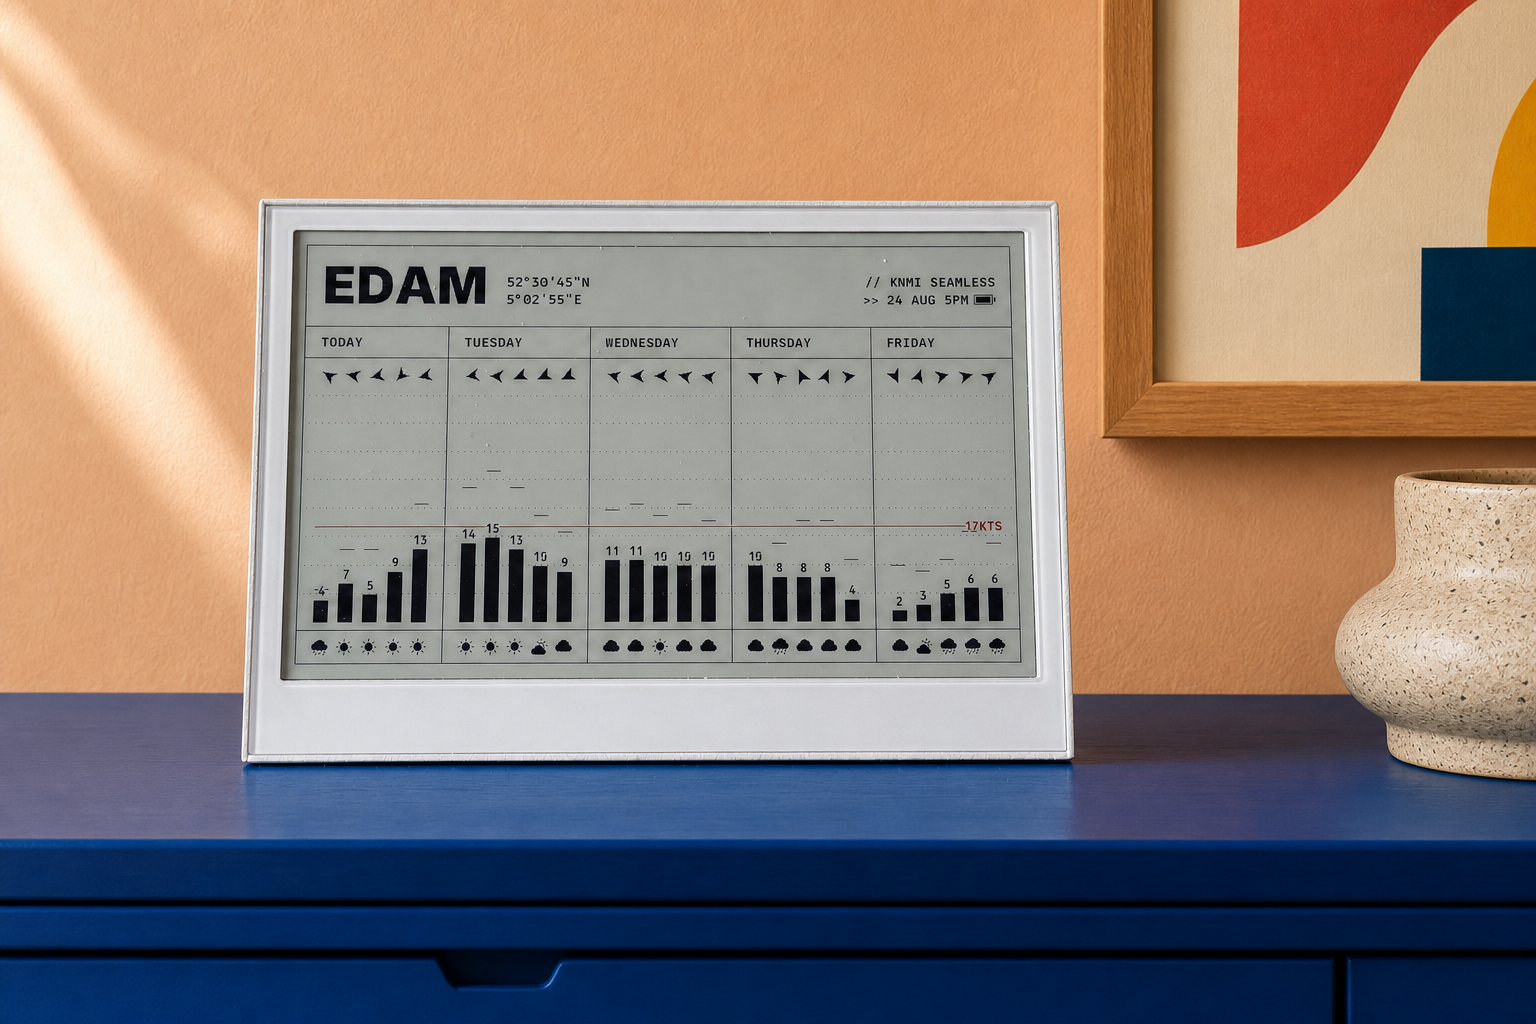
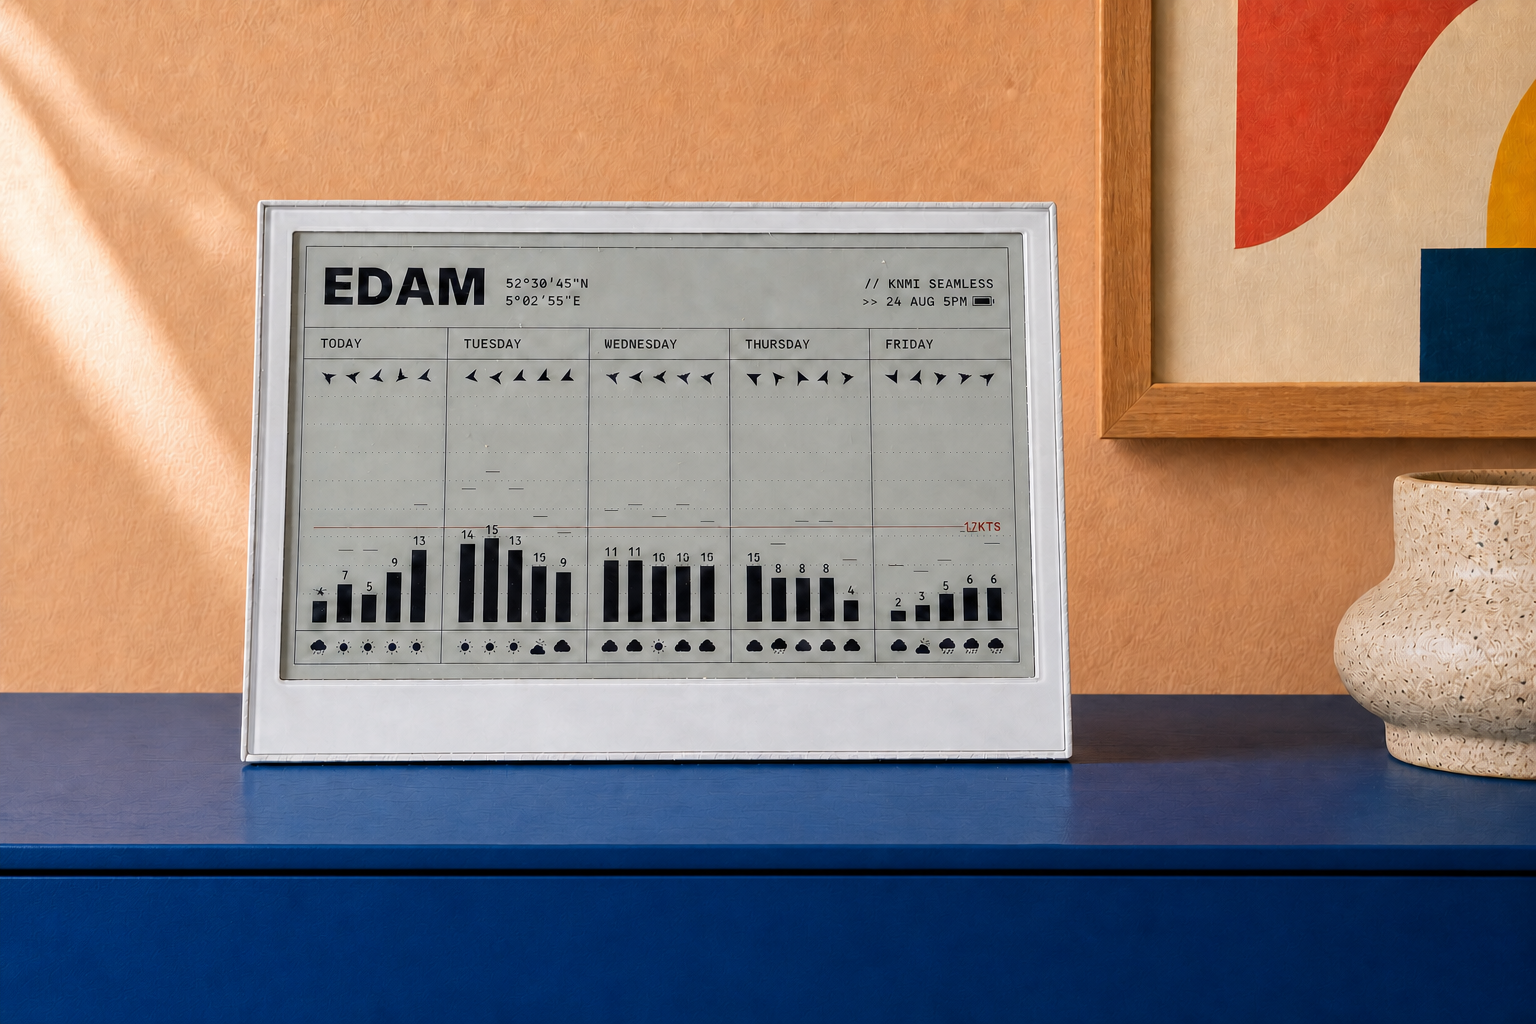
Launch Windscout interest page

diff --git a/index.html b/index.html
@@ -4,7 +4,21 @@
   <meta charset="utf-8">
   <meta name="viewport" content="width=device-width, initial-scale=1">
   <meta name="description" content="Windscout is an always-on e-ink wind forecast that helps you spot the next good session without checking another app.">
-  <title>Windscout</title>
+  <link rel="canonical" href="https://windscout.emieljanson.com/">
+  <meta property="og:type" content="website">
+  <meta property="og:site_name" content="Windscout">
+  <meta property="og:title" content="Catch the good wind.">
+  <meta property="og:description" content="An always-on e-ink wind forecast that keeps the next five days visible at home.">
+  <meta property="og:url" content="https://windscout.emieljanson.com/">
+  <meta property="og:image" content="https://windscout.emieljanson.com/assets/windscout-social.jpg">
+  <meta property="og:image:width" content="1200">
+  <meta property="og:image:height" content="630">
+  <meta property="og:image:alt" content="Windscout showing a five-day wind forecast on an e-ink display">
+  <meta name="twitter:card" content="summary_large_image">
+  <meta name="twitter:title" content="Catch the good wind.">
+  <meta name="twitter:description" content="An always-on e-ink wind forecast that keeps the next five days visible at home.">
+  <meta name="twitter:image" content="https://windscout.emieljanson.com/assets/windscout-social.jpg">
+  <title>Windscout — Always-on e-ink wind forecast</title>
   <style>
     @font-face {
       font-family: "Inter";
@@ -279,10 +293,21 @@
       padding: 0 14px;
     }
 
+    form .button.is-success,
+    form .button.is-success:hover {
+      border-color: #28603a;
+      background: #28603a;
+    }
+
     .note {
       margin-top: 13px;
       color: var(--muted);
       font-size: 12px;
+    }
+
+    .note.is-success {
+      color: var(--text);
+      font-weight: 600;
     }
 
     footer {
@@ -328,7 +353,7 @@
     </header>
 
     <figure>
-      <img src="assets/windscout-hero-blue.png" alt="Windscout on a cobalt-blue sideboard showing a five-day e-ink wind forecast">
+      <img src="assets/windscout-hero-blue.webp" alt="Windscout on a cobalt-blue sideboard showing a five-day e-ink wind forecast">
     </figure>
 
     <section class="story" aria-label="About Windscout">
@@ -353,7 +378,7 @@
     <section class="unlock" id="build">
       <h2>Would you want one?</h2>
       <p>Tell me which version would be useful to you. This will decide what I build next.</p>
-      <form id="interest-form" action="https://formspree.io/f/moeaonzn" method="post">
+      <form id="interest-form" action="https://script.google.com/macros/s/AKfycbzOEnnY2C5OC87GXGo4WY7G3pSt0n2bMd7IxO6Q8Fi_n20BhUl1cIVisay5XUCnQBjPKA/exec" method="post" target="interest-response">
         <fieldset class="interest-options">
           <legend class="visually-hidden">How would you like to get Windscout?</legend>
           <label class="interest-option">
@@ -375,7 +400,8 @@
             </span>
           </label>
         </fieldset>
-        <input type="hidden" name="subject" value="New Windscout interest">
+        <input type="hidden" name="source" value="windscout.emieljanson.com">
+        <input class="visually-hidden" type="text" name="website" tabindex="-1" autocomplete="off" aria-hidden="true">
         <div class="signup-row">
           <label class="visually-hidden" for="email">Email address</label>
           <input class="email-input" id="email" name="email" type="email" autocomplete="email" placeholder="you@example.com" required>
@@ -383,6 +409,7 @@
         </div>
         <p class="note" id="signup-status" role="status" aria-live="polite">I’ll only email you about Windscout. Unsubscribe anytime.</p>
       </form>
+      <iframe class="visually-hidden" name="interest-response" title="Form submission response"></iframe>
     </section>
 
     <footer>Windscout is an independent project by <a href="https://emieljanson.com/">Emiel Janson</a>.</footer>
@@ -553,8 +580,43 @@
       const button = form.querySelector("button[type='submit']");
       const status = document.querySelector("#signup-status");
       const defaultButtonLabel = button.textContent;
+      const defaultStatus = status.textContent;
+      let responseTimer;
 
-      form.addEventListener("submit", async (event) => {
+      const finish = (message, success) => {
+        window.clearTimeout(responseTimer);
+        button.disabled = false;
+        button.classList.toggle("is-success", success);
+        status.classList.toggle("is-success", success);
+
+        if (success) {
+          form.reset();
+          button.textContent = "✓ Interest sent";
+          status.textContent = "Thanks — you’re on the Windscout list.";
+        } else {
+          button.textContent = defaultButtonLabel;
+          status.textContent = message || "Unable to send. Check your connection and try again.";
+        }
+      };
+
+      const clearSuccess = () => {
+        if (!button.classList.contains("is-success")) return;
+        button.classList.remove("is-success");
+        button.textContent = defaultButtonLabel;
+        status.classList.remove("is-success");
+        status.textContent = defaultStatus;
+      };
+
+      form.addEventListener("input", clearSuccess);
+
+      window.addEventListener("message", (event) => {
+        const trustedOrigin = event.origin === "https://script.google.com" || event.origin.endsWith(".googleusercontent.com");
+        if (!trustedOrigin || event.data?.source !== "windscout-interest") return;
+
+        finish(event.data.message, event.data.status === "ok");
+      });
+
+      form.addEventListener("submit", (event) => {
         event.preventDefault();
         if (!form.reportValidity()) return;
 
@@ -562,31 +624,10 @@
         button.textContent = "Sending...";
         status.textContent = "Sending your interest...";
 
-        try {
-          const response = await fetch(form.action, {
-            method: "POST",
-            body: new FormData(form),
-            headers: { Accept: "application/json" }
-          });
-
-          if (!response.ok) {
-            if (response.status === 422) {
-              throw new Error("Check your email address and try again.");
-            }
-            if (response.status === 429) {
-              throw new Error("Too many attempts. Wait a moment and try again.");
-            }
-            throw new Error("Unable to send. Check your connection and try again.");
-          }
-
-          form.reset();
-          status.textContent = "Thanks — I’ll keep you posted.";
-        } catch (error) {
-          status.textContent = error.message || "Unable to send. Check your connection and try again.";
-        } finally {
-          button.disabled = false;
-          button.textContent = defaultButtonLabel;
-        }
+        HTMLFormElement.prototype.submit.call(form);
+        responseTimer = window.setTimeout(() => {
+          finish("The request took too long. Check your connection and try again.", false);
+        }, 20000);
       });
     })();
   </script>
